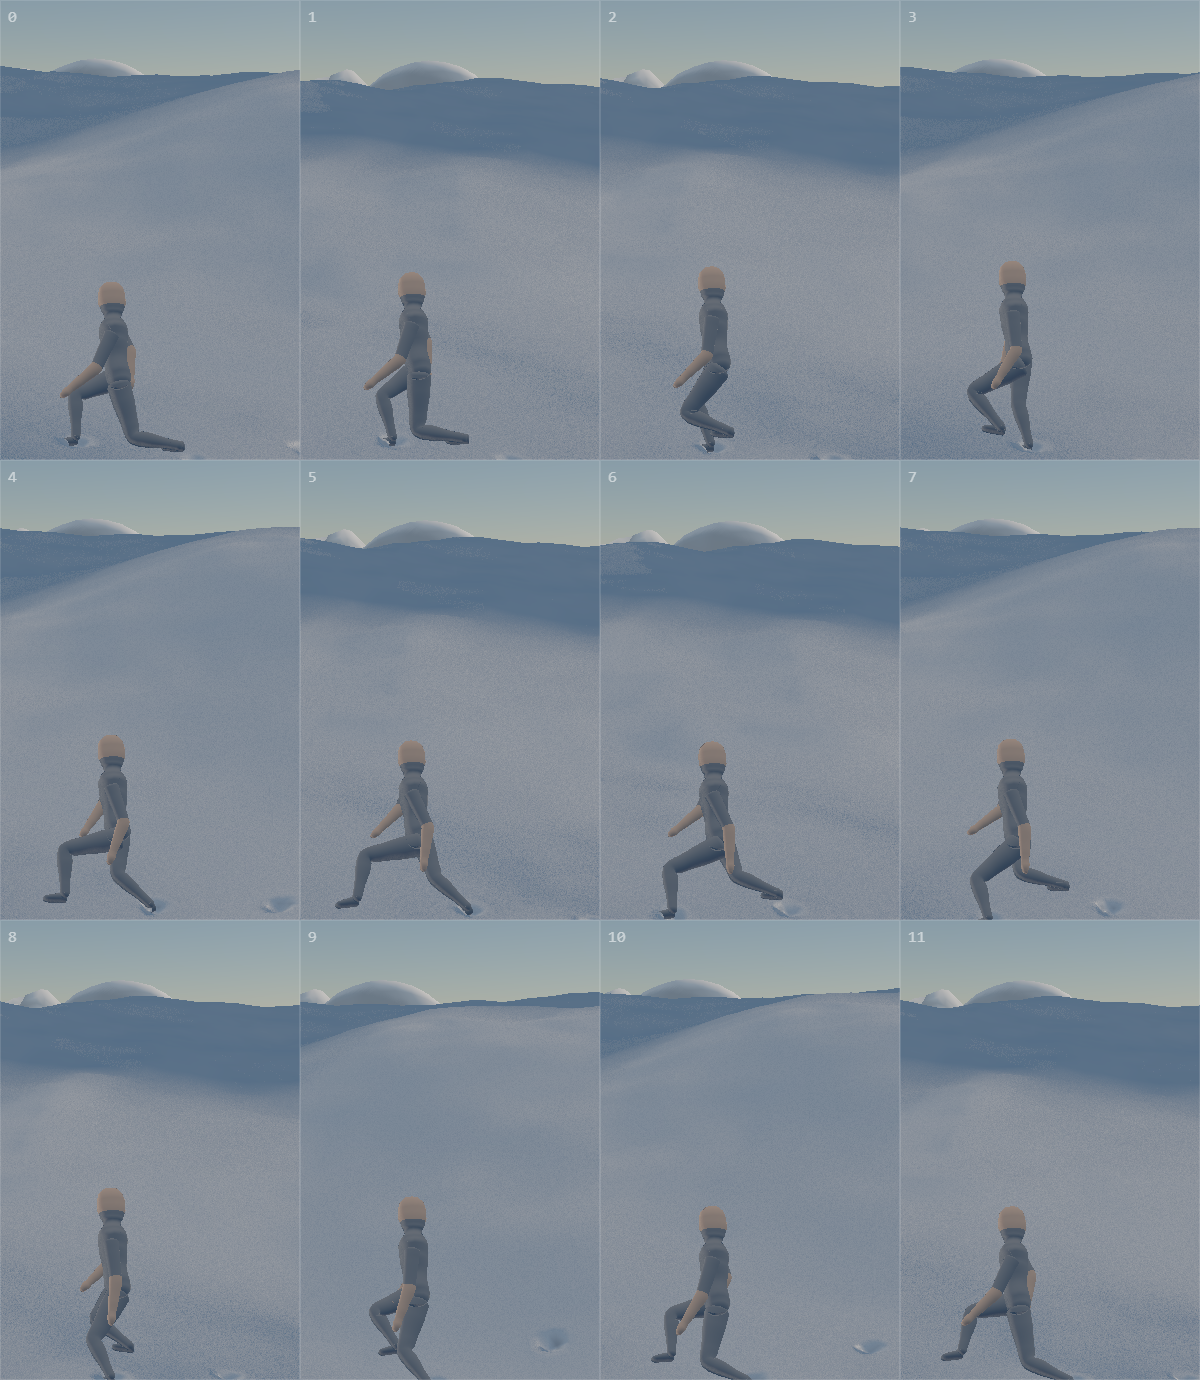
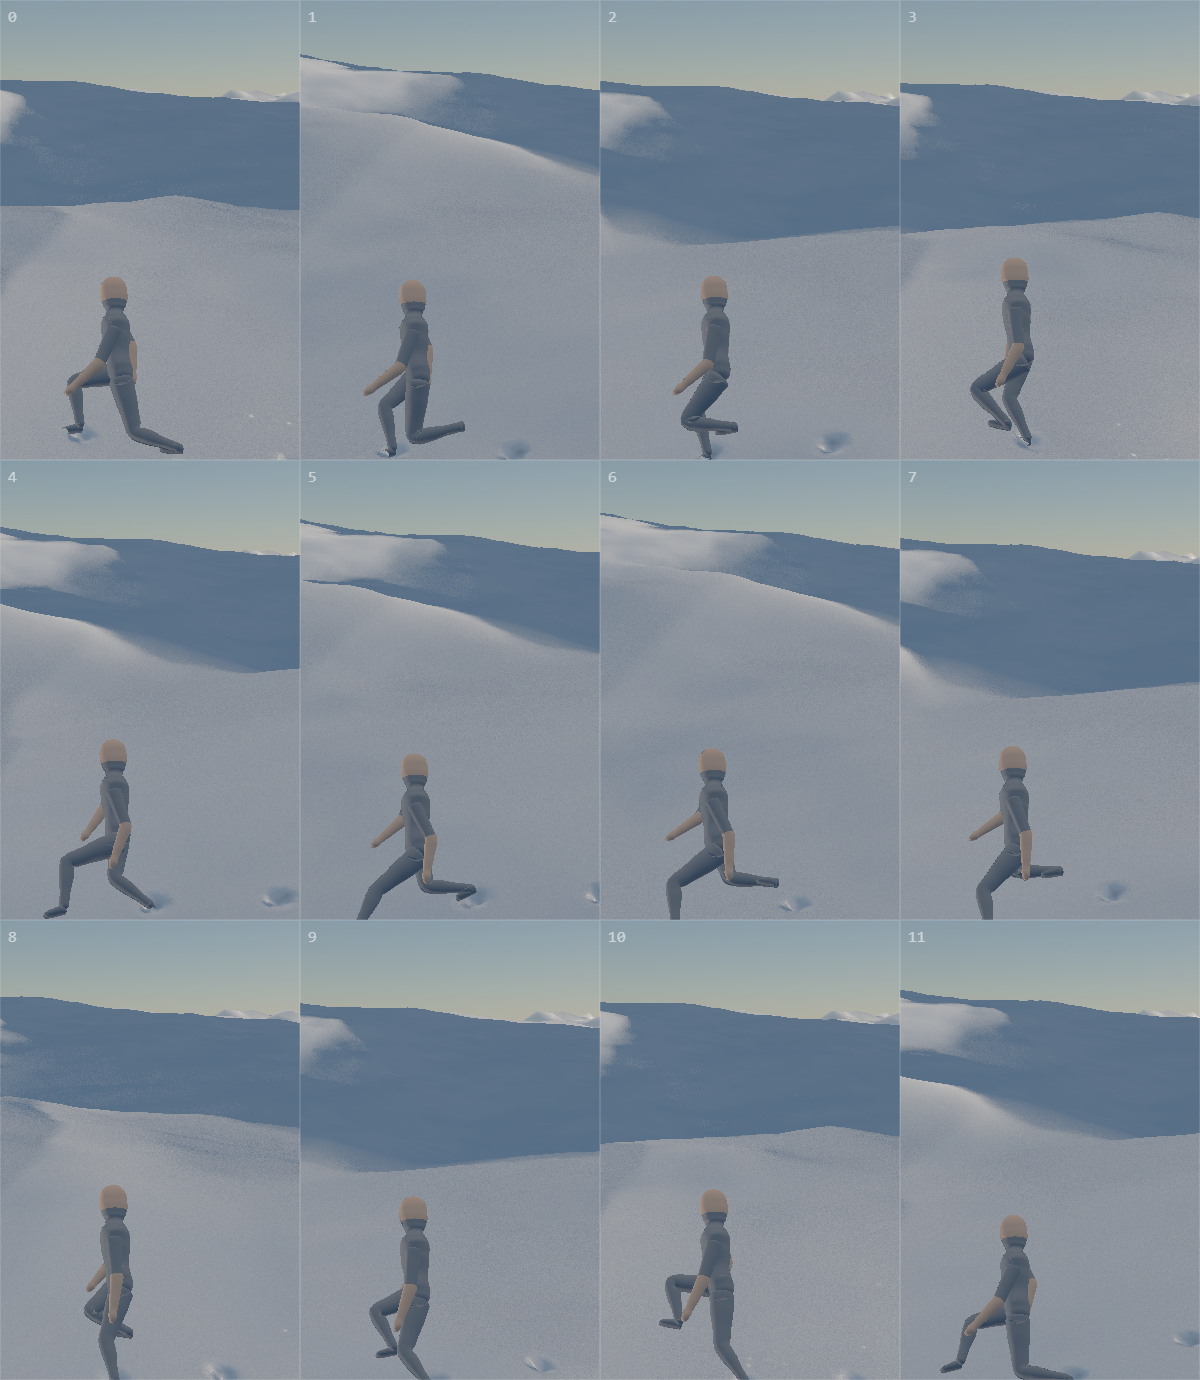
fix: the swing leg scythed instead of cycling
Three more uses of speed/char.walkSpeed, and one of them mattered a lot: the
swing foot cleared the ground by the same 13 cm at 3.2 m/s as at a stroll,
because the lift was scaled by the ratio and the ratio is 1.0 at
char.walkSpeed. Thirteen centimetres is a walk's clearance. A runner brings
the heel up towards the backside and passes the foot 40 cm off the deck, and
with too little lift the leg swings through almost straight — which is most
of what made the cycle read as stiff. The legs looked swept forward rather
than picked up and put down.

Forward lean and foot roll were the same story and are now on the same
absolute-speed blend. That is every use of speedRatio in the pose gone; only
the print load still reads it, where a ratio to the walking speed is
genuinely the right quantity.

Found the same way as the arms: a filmstrip of the whole cycle. Frames 2, 3,
10 and 11 now show a tucked knee where before the leg was straight through
the entire swing.

diff --git a/src/character/gait.ts b/src/character/gait.ts
@@ -300,7 +300,15 @@ export class Gait {
         this._distancePrev = mover.distance;
         const stepPhase = this._stepPhase;
         const half = s["char.stanceWidth"] * 0.5;
-        const lift = s["char.stepLift"] * Math.min(0.6 + 0.4 * speedRatio, 2);
+        // THE KNEE HAS TO CYCLE, NOT SCYTHE.
+        //
+        // This was another speedRatio, so the swing foot cleared the ground by the same
+        // 13 cm at 3.2 m/s as it does at a stroll. Thirteen centimetres is a walk's
+        // clearance; a runner brings the heel up towards the backside and the foot passes
+        // 40 cm off the deck. With too little lift the leg swings through almost straight,
+        // which is most of what made the cycle read as stiff — the legs looked like they
+        // were being swept forward rather than picked up and put down.
+        const lift = s["char.stepLift"] * (0.9 + 2.6 * this._run);
 
         // Where the body is heading, for predicting where a swinging foot lands. Facing
         // when almost stopped, because a near-zero velocity has no direction.
@@ -426,7 +434,7 @@ export class Gait {
             this._ankle[i * 3 + 2] = az;
         }
 
-        this._pose(mover, stepPhase, stride, speedRatio);
+        this._pose(mover, stepPhase, stride);
     }
 
     private _setPlant(i: number, x: number, z: number): void {
@@ -436,7 +444,7 @@ export class Gait {
     }
 
     /** Build the whole pose, in character space, and bake the palette. */
-    private _pose(mover: Mover, stepPhase: number, stride: number, speedRatio: number): void {
+    private _pose(mover: Mover, stepPhase: number, stride: number): void {
         const s = this._settings.v;
         const sk = this.skeleton;
         const moving = 1 - this._stand;
@@ -485,7 +493,7 @@ export class Gait {
         // into speed: the line from your feet through your centre of mass has to stay
         // over the ground you are pushing against.
         const climb = clampAbs(this._slopeAlong(this._px, this._pz, this._sin, this._cos, 0.5), 0.8);
-        const leanZ = (Math.tan(s["char.lean"] * DEG) * Math.min(speedRatio, 2.4) * moving + climb * 0.32) * 1;
+        const leanZ = (Math.tan(s["char.lean"] * DEG) * (0.35 + 1.6 * this._run) * moving + climb * 0.32) * 1;
         const leanX = clampAbs((mover.speed * this._turn) / G, 0.55) * s["char.bank"];
 
         // NEVER ASK A LEG FOR MORE THAN IT HAS. The bob above is the flat-ground case of a
@@ -537,8 +545,8 @@ export class Gait {
         const rightX = 1 / rl;
         const rightY = -leanX / rl;
         const hipMid = sway + shift;
-        this._leg(B.thighR, B.shinR, B.footR, hipMid + rightX * P.hipHalf, pelvisY + rightY * P.hipHalf, 0, speedRatio);
-        this._leg(B.thighL, B.shinL, B.footL, hipMid - rightX * P.hipHalf, pelvisY - rightY * P.hipHalf, 1, speedRatio);
+        this._leg(B.thighR, B.shinR, B.footR, hipMid + rightX * P.hipHalf, pelvisY + rightY * P.hipHalf, 0);
+        this._leg(B.thighL, B.shinL, B.footL, hipMid - rightX * P.hipHalf, pelvisY - rightY * P.hipHalf, 1);
 
         // --- arms -----------------------------------------------------------
         //
@@ -595,7 +603,7 @@ export class Gait {
      * picks which point. Knees bend forward, splayed very slightly outward so they clear
      * each other at the bottom of a stride.
      */
-    private _leg(thigh: number, shin: number, foot: number, hx: number, hy: number, i: number, speedRatio: number): void {
+    private _leg(thigh: number, shin: number, foot: number, hx: number, hy: number, i: number): void {
         const sk = this.skeleton;
         const side = i === 0 ? 1 : -1;
 
@@ -680,7 +688,7 @@ export class Gait {
         const gaitPitch =
             (t < duty ? roll * smoothstep(0.55, 1, t / duty) : -roll * 0.7 * Math.sin((Math.PI * (t - duty)) / (1 - duty))) *
             (1 - this._stand) *
-            Math.min(0.7 + 0.3 * speedRatio, 1.5);
+            (0.8 + 0.6 * this._run);
 
         // AND THE GROUND'S OWN PITCH. A sole that stays level while the hill under it does
         // not is the tell that a character is walking on an idea of the terrain rather
